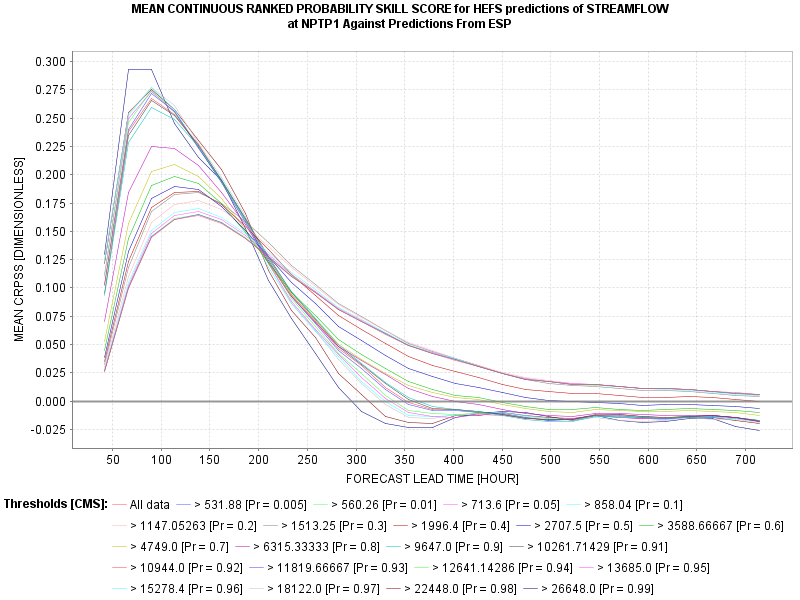
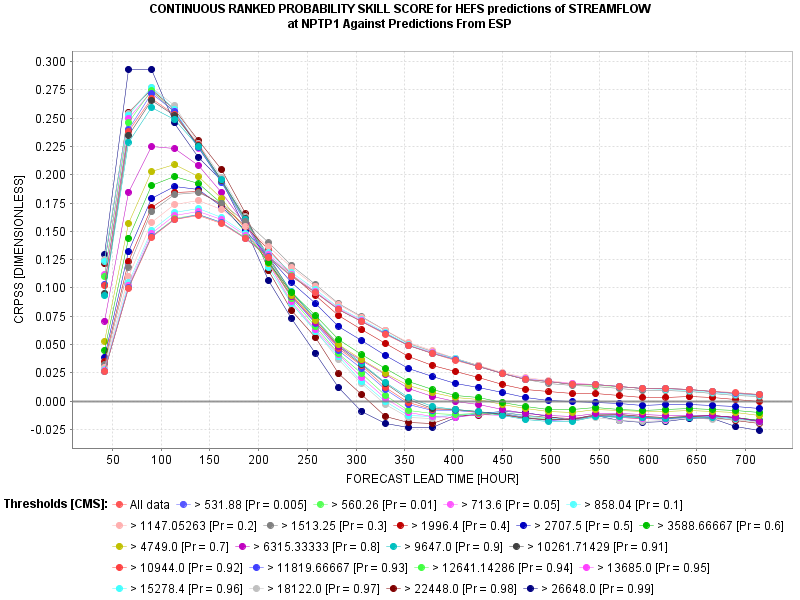
Added scatter points to all wres-vis plots

diff --git a/wres-vis/test/wres/vis/Chart2DTestOutput.java b/wres-vis/test/wres/vis/Chart2DTestOutput.java
@@ -37,8 +37,8 @@ import wres.datamodel.MultiVectorOutput;
 import wres.datamodel.QuantileThreshold;
 import wres.datamodel.ScalarOutput;
 import wres.datamodel.Threshold;
-import wres.datamodel.VectorOutput;
 import wres.datamodel.Threshold.Operator;
+import wres.datamodel.VectorOutput;
 
 /**
  * Tests the construction of a 3D chart of metric outputs. The building of the charts and images is tested via the unit
@@ -911,6 +911,11 @@ public class Chart2DTestOutput extends TestCase
      * The comparison sensitivity.
      */
     private static int IMAGE_COMPARISON_SENSITIVITY = 2;
+    
+    /**
+     * Comparison debug output
+     */
+    private static boolean IMAGE_COMPARISON_DEBUG_OUTPUT = false;
 
     /**
      * Main line compares images with benchmarks.
@@ -933,7 +938,7 @@ public class Chart2DTestOutput extends TestCase
                                                                           benchmarkFile,
                                                                           IMAGE_COMPARISON_SENSITIVITY,
                                                                           true,
-                                                                          true);
+                                                                          IMAGE_COMPARISON_DEBUG_OUTPUT);
             }
             catch(final Throwable t)
             {
